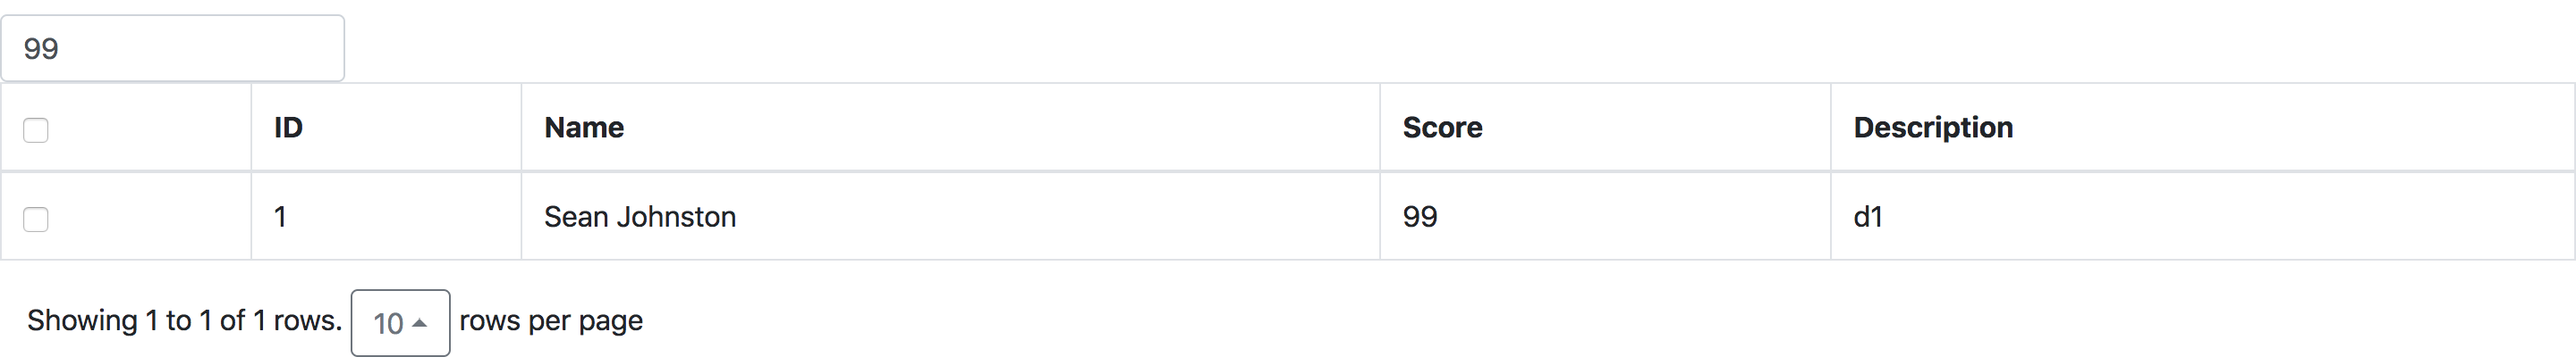
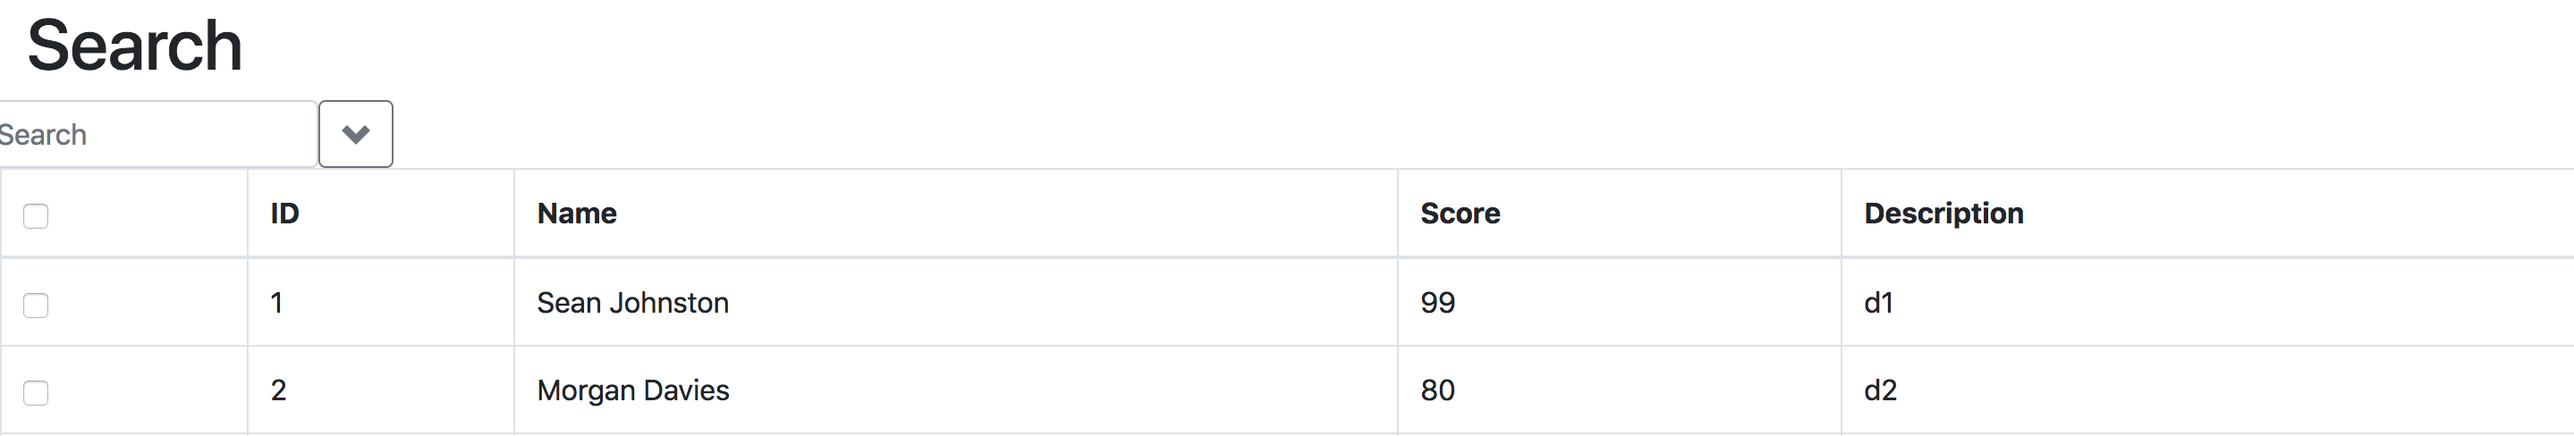
advanced search README

diff --git a/src/app/app.component.html b/src/app/app.component.html
@@ -18,7 +18,13 @@
     </es-ng-table-tool-bar>
     <es-ng-table-col field="state" [checkbox]="true"></es-ng-table-col>
     <es-ng-table-col title="ID" field="id"></es-ng-table-col>
-    <es-ng-table-col title="Name" field="name"></es-ng-table-col>
+    <es-ng-table-col title="Name" field="name">
+      <ng-template #editTemplate let-col="col" let-obj="obj">
+        <select class="form-control" name="{{col.field}}" [(ngModel)]="obj[col.field]">
+          <option *ngFor="let row of data" [ngValue]="row.name">{{row.name}}</option>
+        </select>
+      </ng-template>
+    </es-ng-table-col>
     <es-ng-table-col title="Score" field="score"></es-ng-table-col>
     <es-ng-table-col title="Description" field="description"></es-ng-table-col>
   </es-ng-table>

diff --git a/src/app/app.module.ts b/src/app/app.module.ts
@@ -7,6 +7,7 @@ import {BsTableModule} from "./bs-table/bs-table.module";
 import {AppRoutingModule} from "./app-routing.module";
 import {NG_TABLE_I18N} from "./bs-table/locale/ng-table-i18n.service";
 import {NgTableZhTwService} from "./bs-table/locale/ng-table-zh-tw.service";
+import {FormsModule} from "@angular/forms";
 
 @NgModule({
   declarations: [
@@ -17,6 +18,7 @@ import {NgTableZhTwService} from "./bs-table/locale/ng-table-zh-tw.service";
     AppRoutingModule,
     HttpClientModule,
     BsTableModule,
+    FormsModule
   ],
   providers: [
     // {provide: NG_TABLE_I18N, useClass: NgTableZhTwService}

diff --git a/src/app/bs-table/ng-table-advanced-search/ng-table-advanced-search.component.html b/src/app/bs-table/ng-table-advanced-search/ng-table-advanced-search.component.html
@@ -11,7 +11,7 @@
     <form class="form-group row" *ngFor="let col of cols">
       <label class="col-sm-4 col-form-label">{{col.title}}</label>
       <div class="col-sm-8">
-        <ng-container *ngTemplateOutlet="col.editTemplate; context: {col: col, query: query}"></ng-container>
+        <ng-container *ngTemplateOutlet="col.editTemplate; context: {col: col, obj: query}"></ng-container>
       </div>
     </form>
   </div>

diff --git a/src/app/bs-table/ng-table-col/ng-table-col.component.html b/src/app/bs-table/ng-table-col/ng-table-col.component.html
@@ -2,6 +2,6 @@
   {{formatter(value)}}
 </ng-template>
 
-<ng-template #editTemplate let-col="col" let-query="query">
-  <input class="form-control" placeholder="{{col.title}}" name="{{col.field}}" [(ngModel)]="query[col.field]">
+<ng-template #editTemplate let-col="col" let-obj="obj">
+  <input class="form-control" placeholder="{{col.title}}" name="{{col.field}}" [(ngModel)]="obj[col.field]">
 </ng-template>

diff --git a/README.md b/README.md
@@ -155,7 +155,7 @@ html:
 
 ### Search
 ![image](https://github.com/endsound0211/es-ng6-bs4-table/blob/master/pic/general_search.png)
-
+![image](https://github.com/endsound0211/es-ng6-bs4-table/blob/master/pic/advanced_search.png)
 html:
 
 ````angular2html
@@ -166,7 +166,14 @@ html:
         <es-ng-table-advanced-search></es-ng-table-advanced-search>
       </div>
     </es-ng-table-tool-bar>
-    <es-ng-table-col title="Name" field="name"></es-ng-table-col>
+    <es-ng-table-col title="ID" field="id"></es-ng-table-col>
+    <es-ng-table-col title="Name" field="name">
+        <ng-template #editTemplate let-col="col" let-obj="obj">
+           <select class="form-control" name="{{col.field}}" [(ngModel)]="obj[col.field]">
+              <option *ngFor="let row of data" [ngValue]="row.name">{{row.name}}</option>
+            </select>
+        </ng-template>
+    </es-ng-table-col>
 </es-ng-table>
 ````
 
